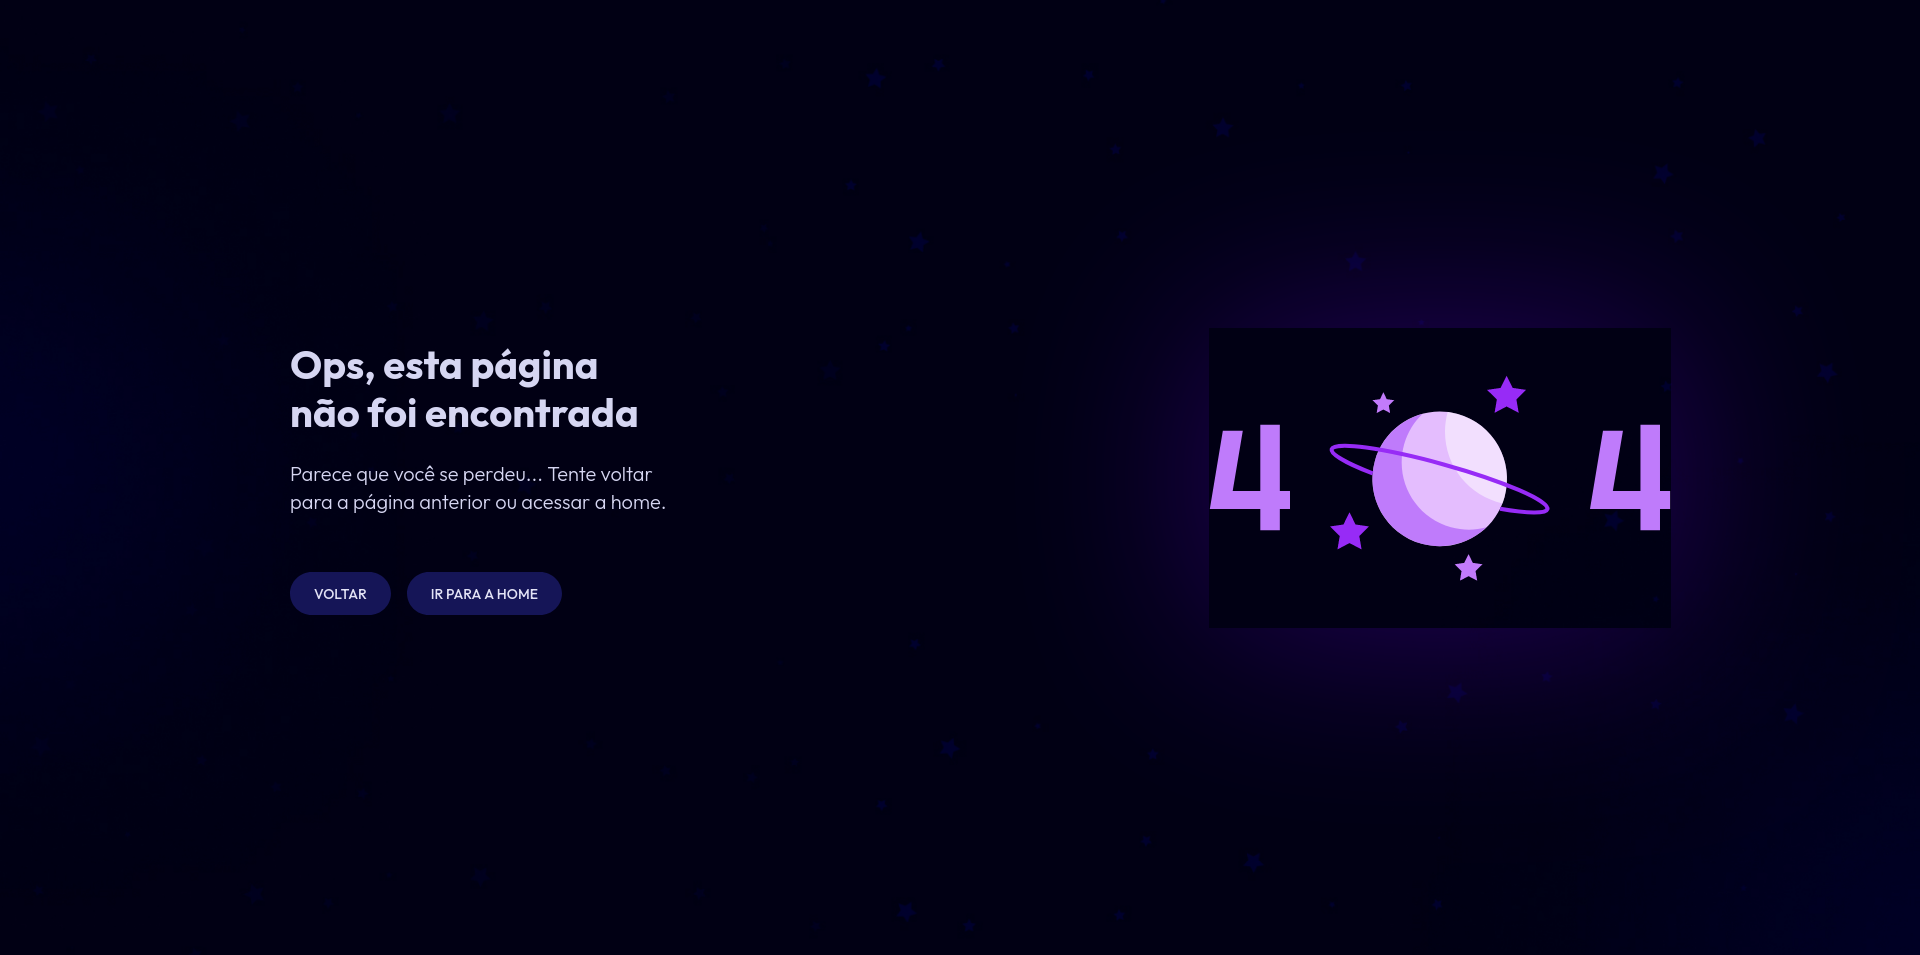
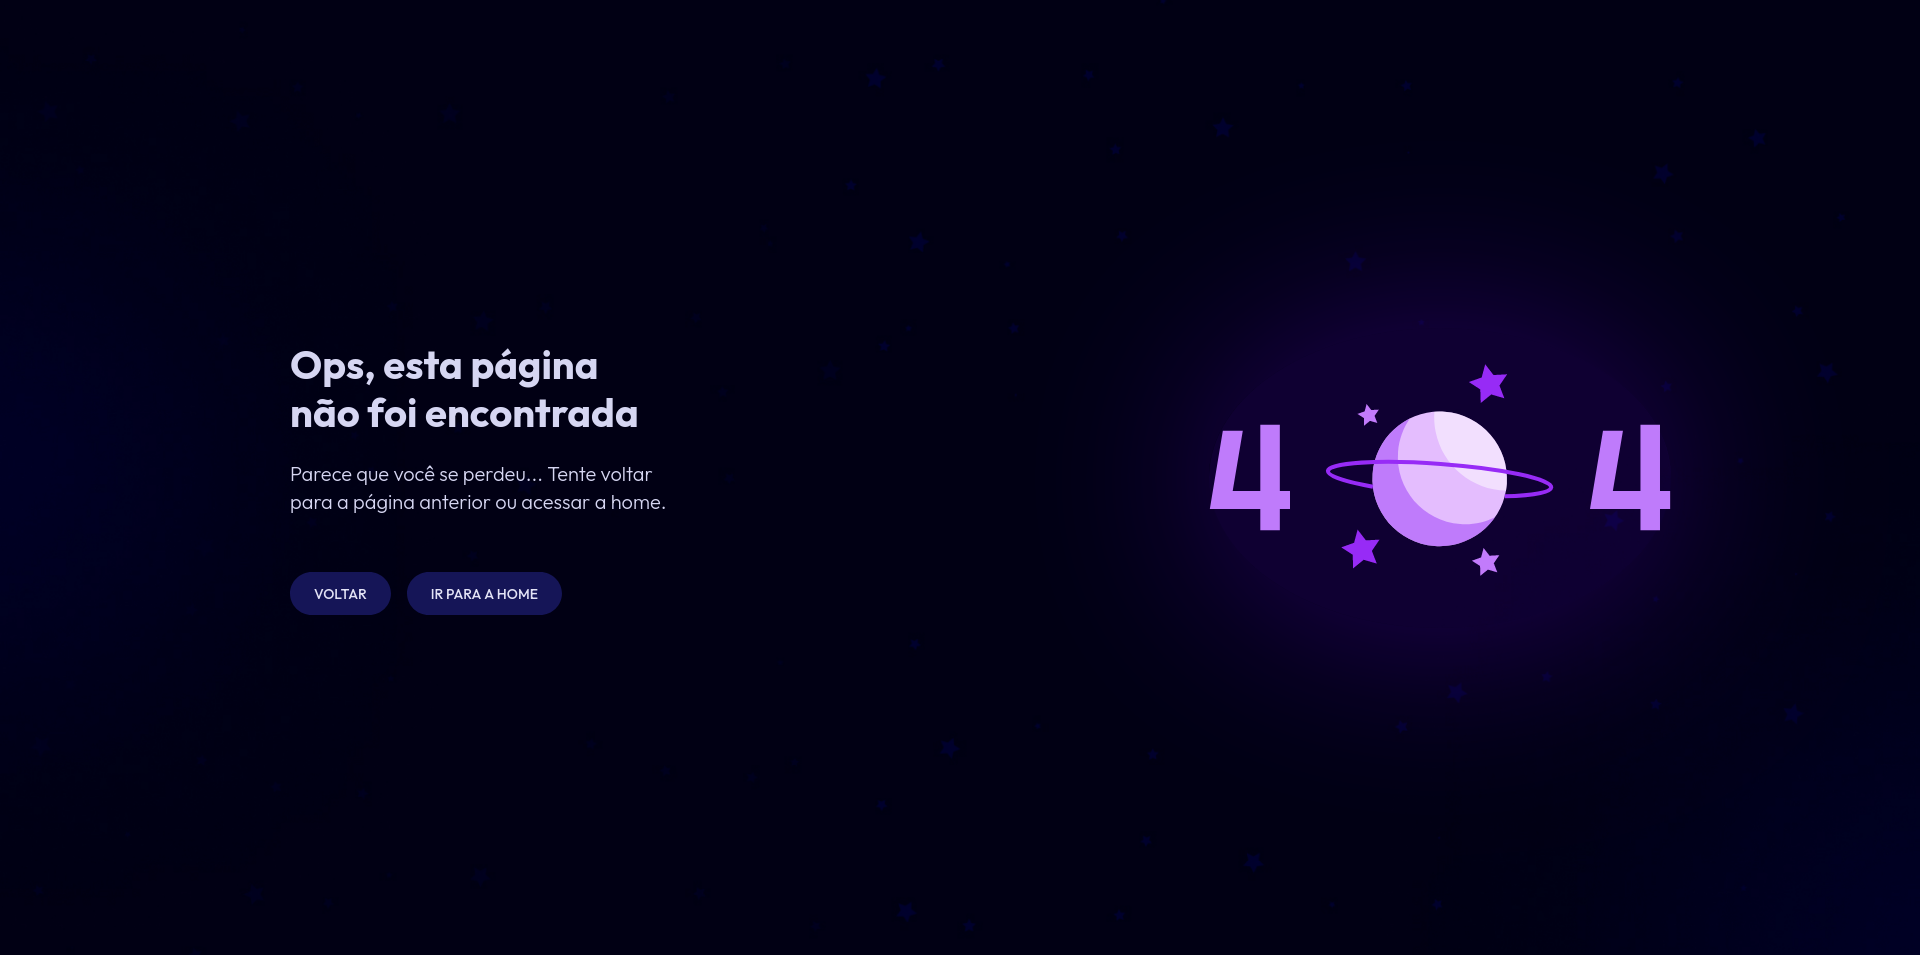
update 404 page

Changed region(s): [[0.625, 0.334, 0.875, 0.6681]]

diff --git a/27-404-page/style.css b/27-404-page/style.css
@@ -39,6 +39,8 @@ main {
 aside {
   display: flex;
   align-items: center;
+  border-radius: 50%;
+  background-color: #7000FF20;
   box-shadow: 0px 0px 196px 0px #7000FF4D;
 }
 
